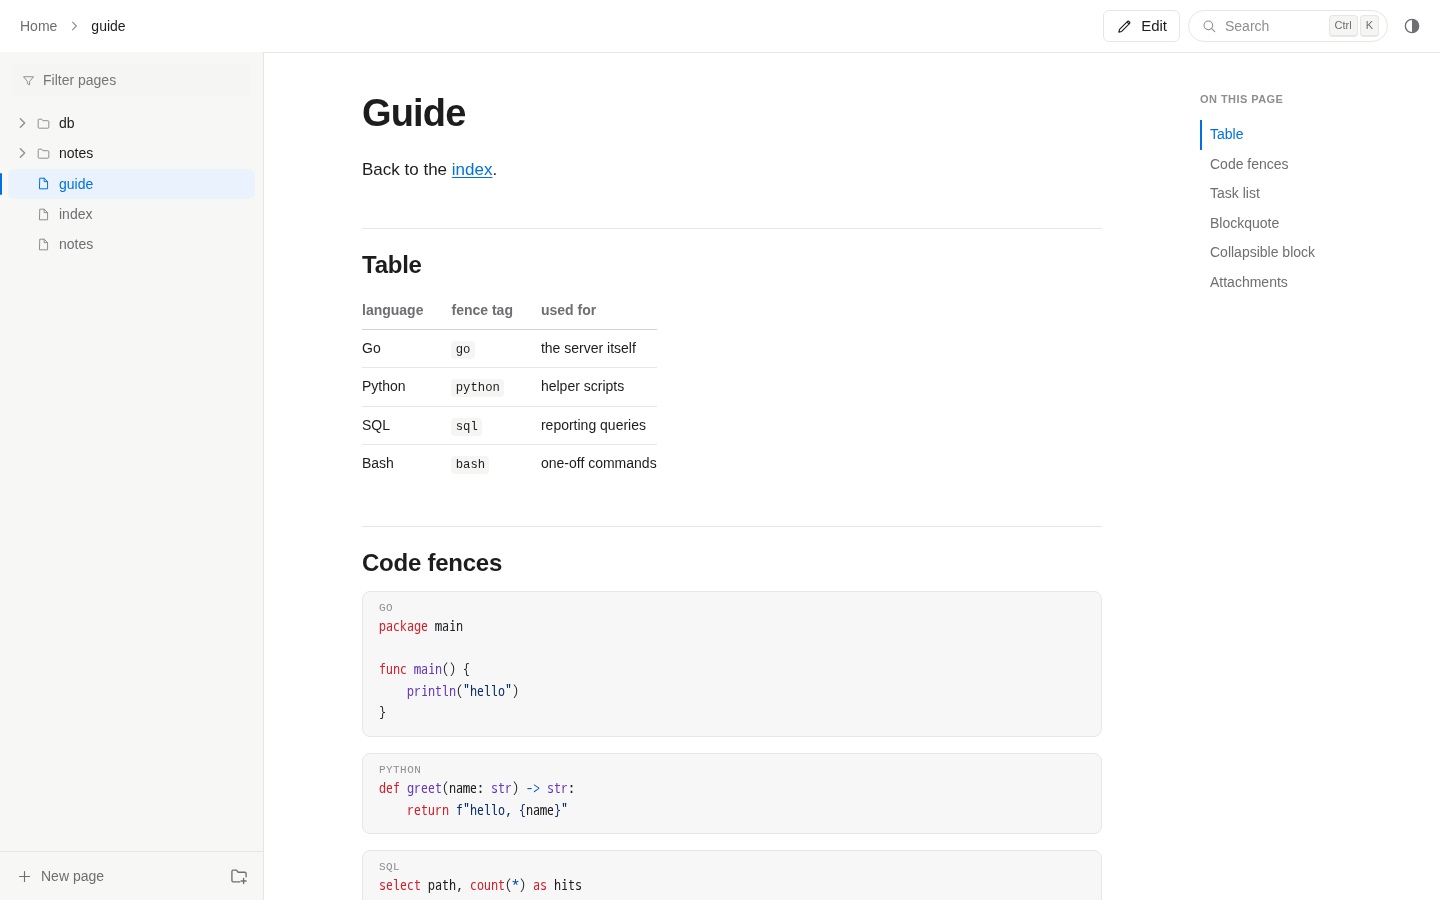
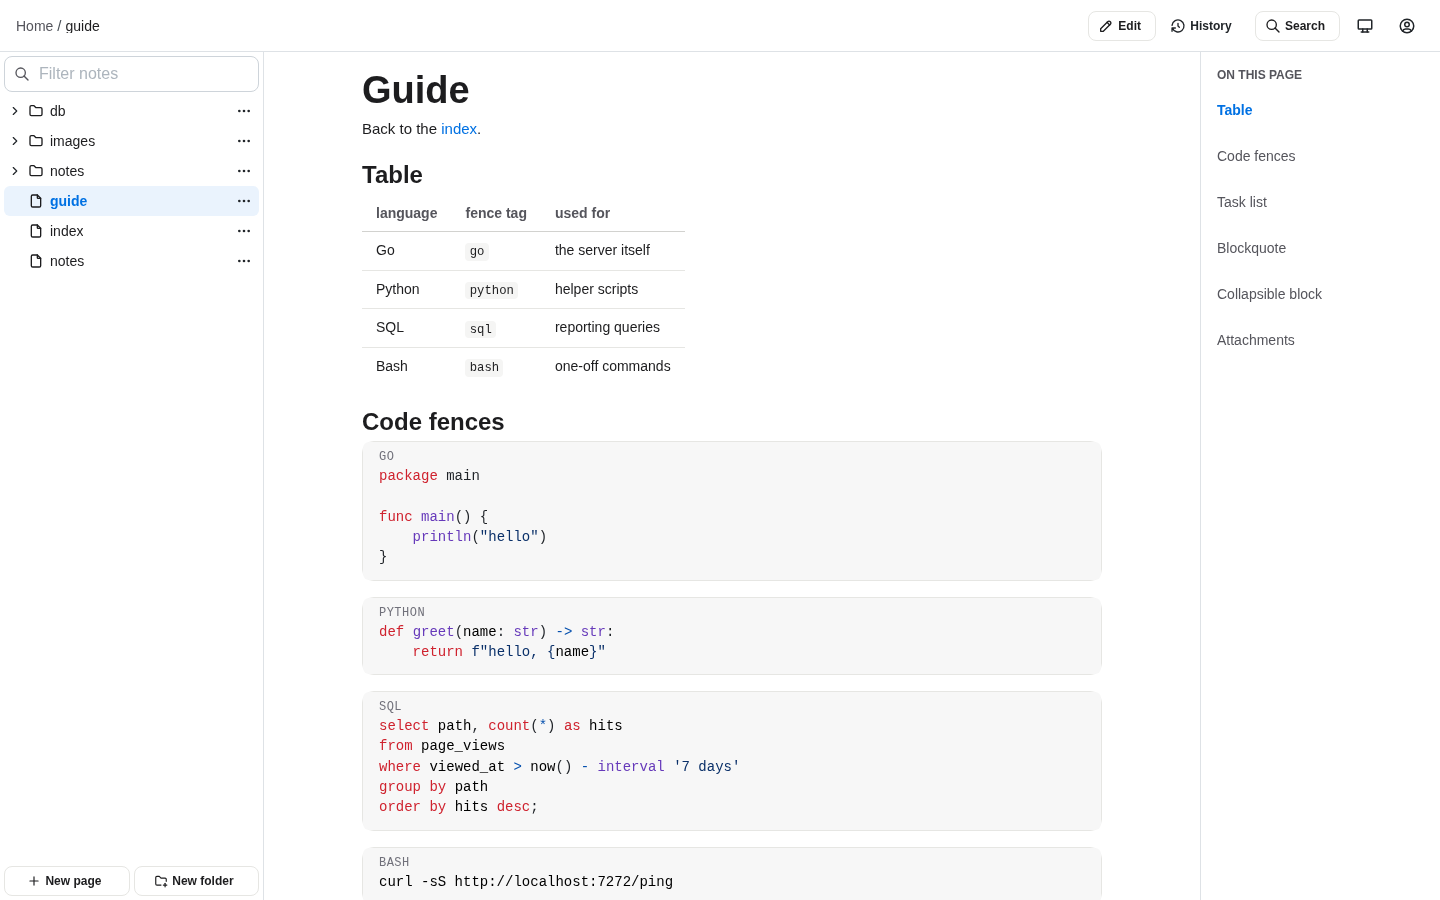
docs: the readme builds the interface, and the pictures are of it
The development section listed every make target but the one that
builds the frontend, so a fresh clone had no way to rebuild it: make
deps vendors the go modules and nothing else. It names make ui now, and
says where the interface lives and why its build output is checked in.

The three screenshots were of the pages that no longer exist. They are
retaken from the app: the reading view with its outline, the editor
split against its preview, and the same page on a phone.

diff --git a/README.md b/README.md
@@ -248,6 +248,7 @@ make deps
 ```
 
 ```
+make ui         build the interface into server/assets/app/
 make build      build the binary into dist/
 make run        run against ./examples/data without authentication
 make test       tests
@@ -257,5 +258,13 @@ make lint       every hook: formatting, go vet, golangci-lint
 make e2e        the browser suite
 make img        build the image
 ```
+
+The interface is a react app in [web/](web/), see
+[web/README.md](web/README.md). What vite builds is committed under
+`server/assets/app/` and embedded with `//go:embed`, which is what lets
+`go install` and the docker image work with neither node nor the
+network. Change anything under `web/` and the rebuilt bundle belongs in
+the same commit: CI rebuilds it and fails if what is checked in is
+stale.
 
 Browser tests live in [e2e/](e2e/), see [e2e/README.md](e2e/README.md).
